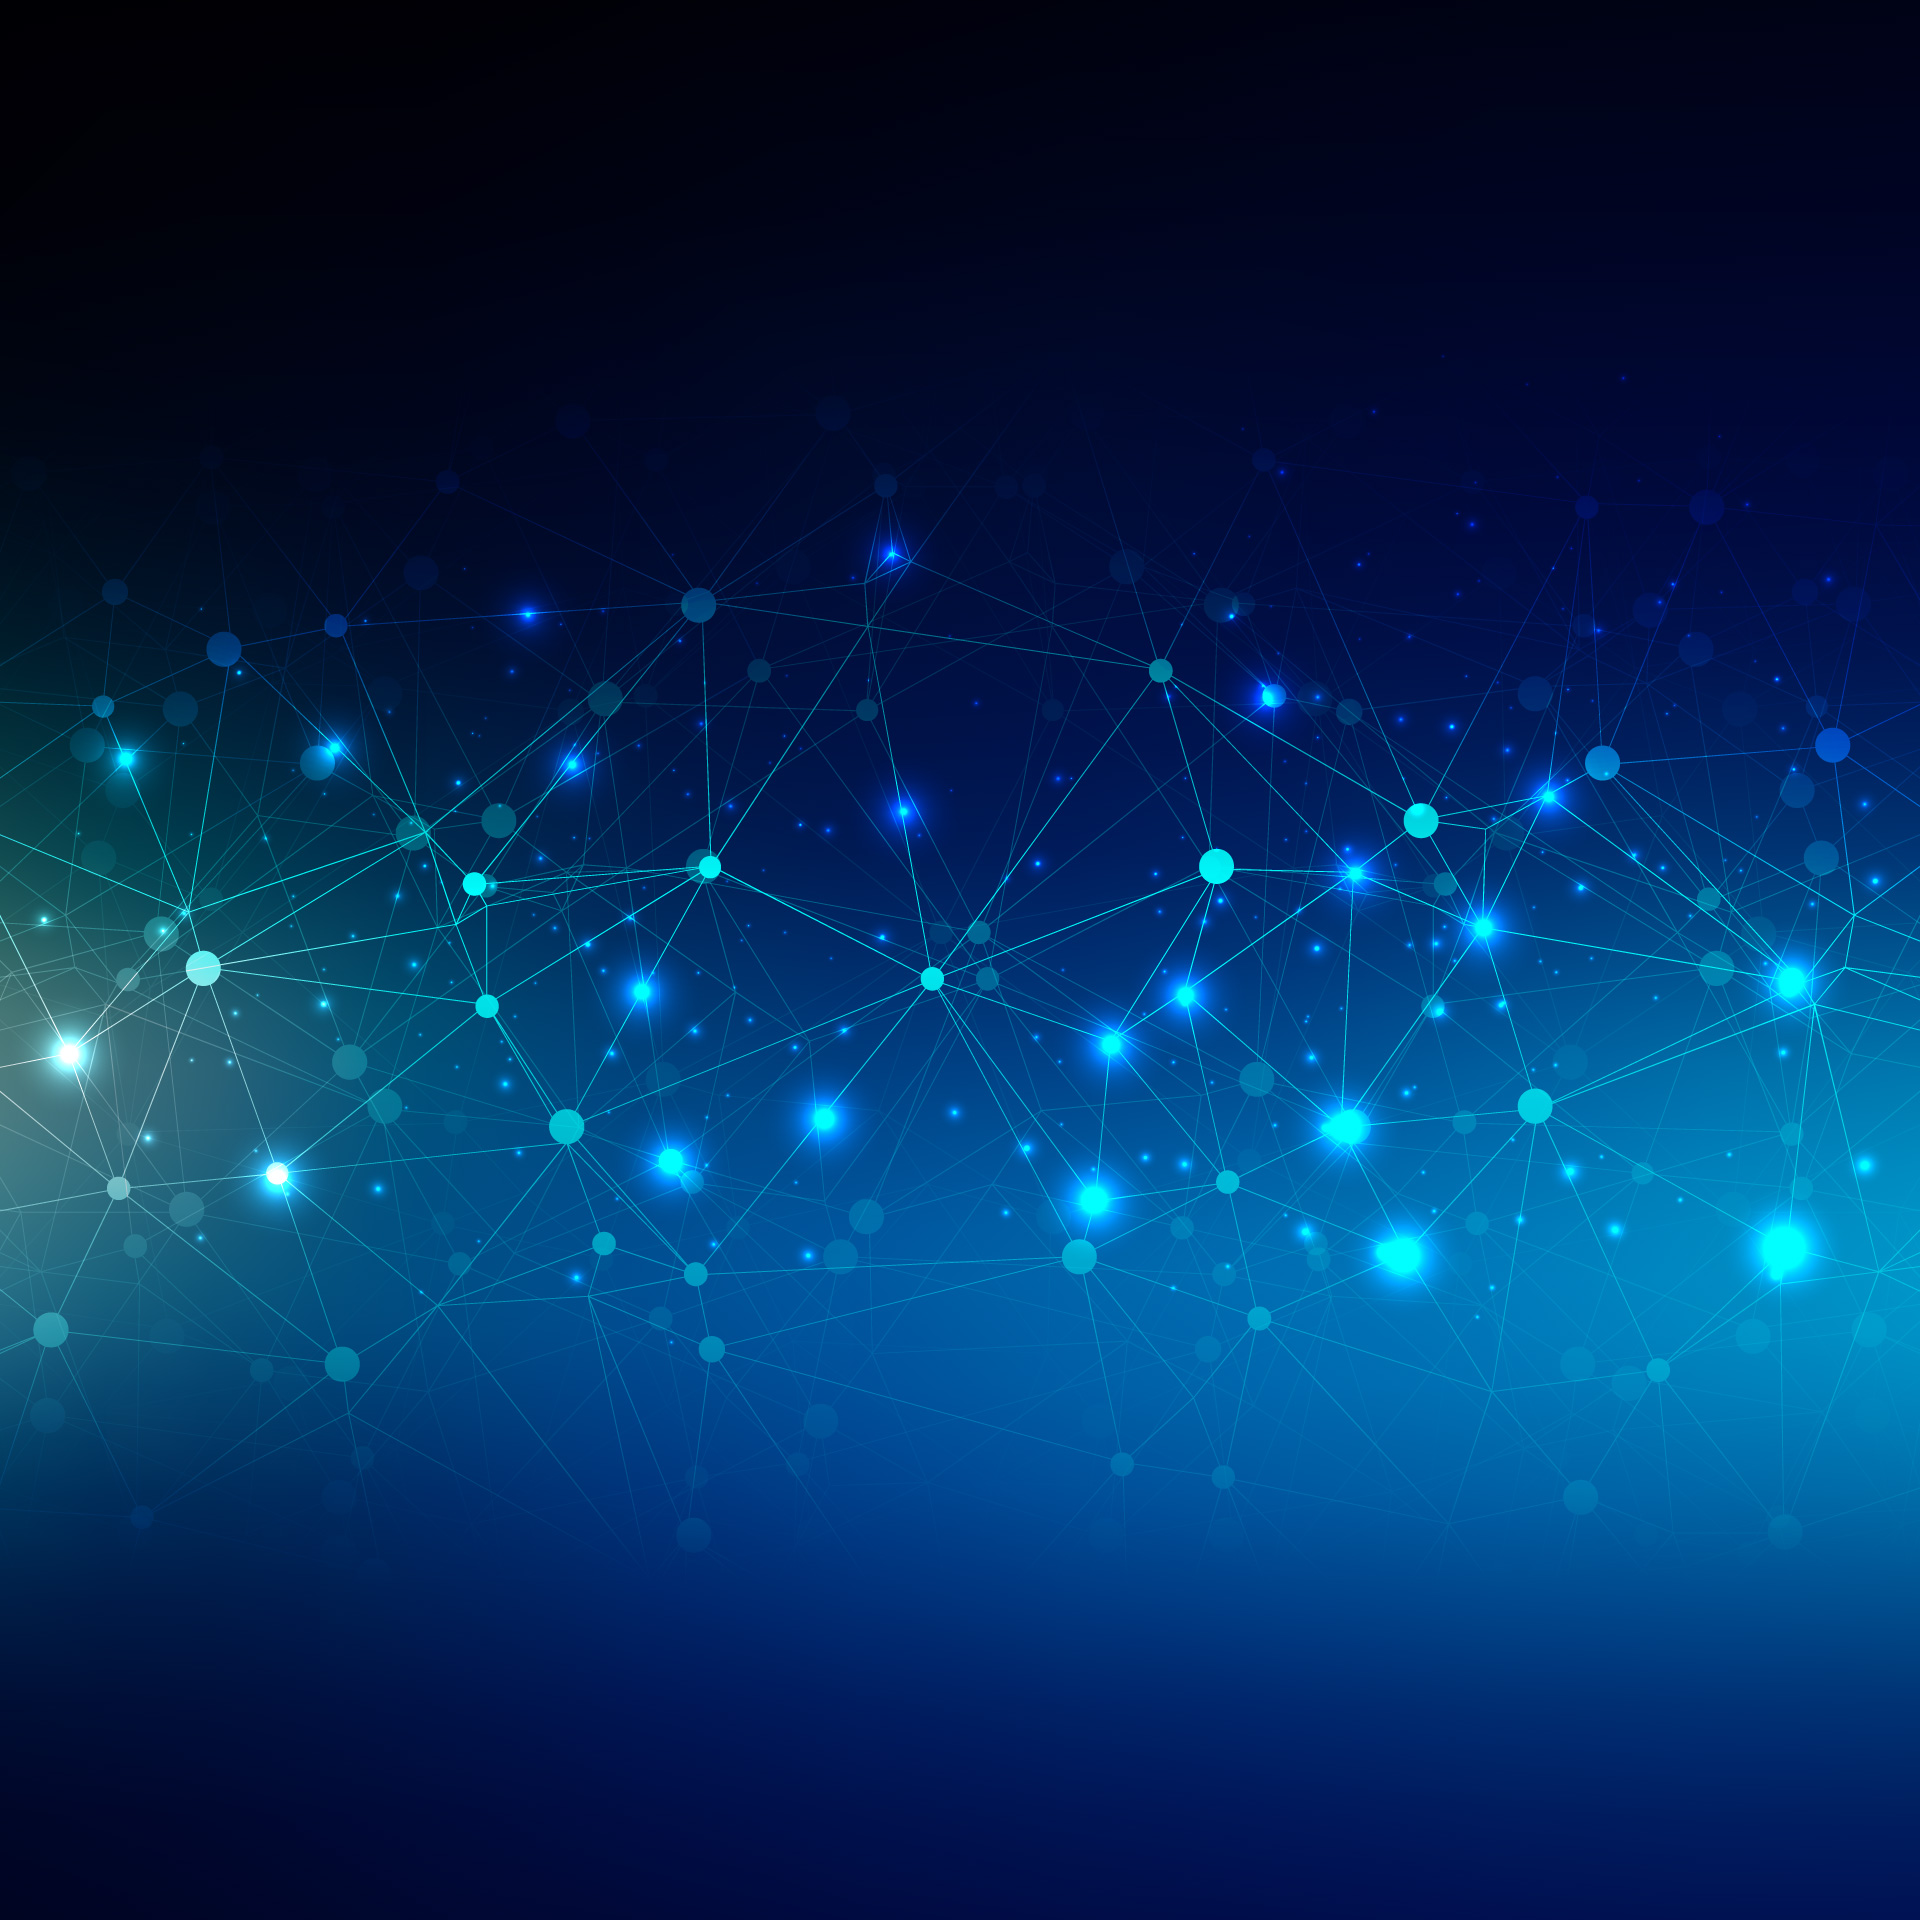
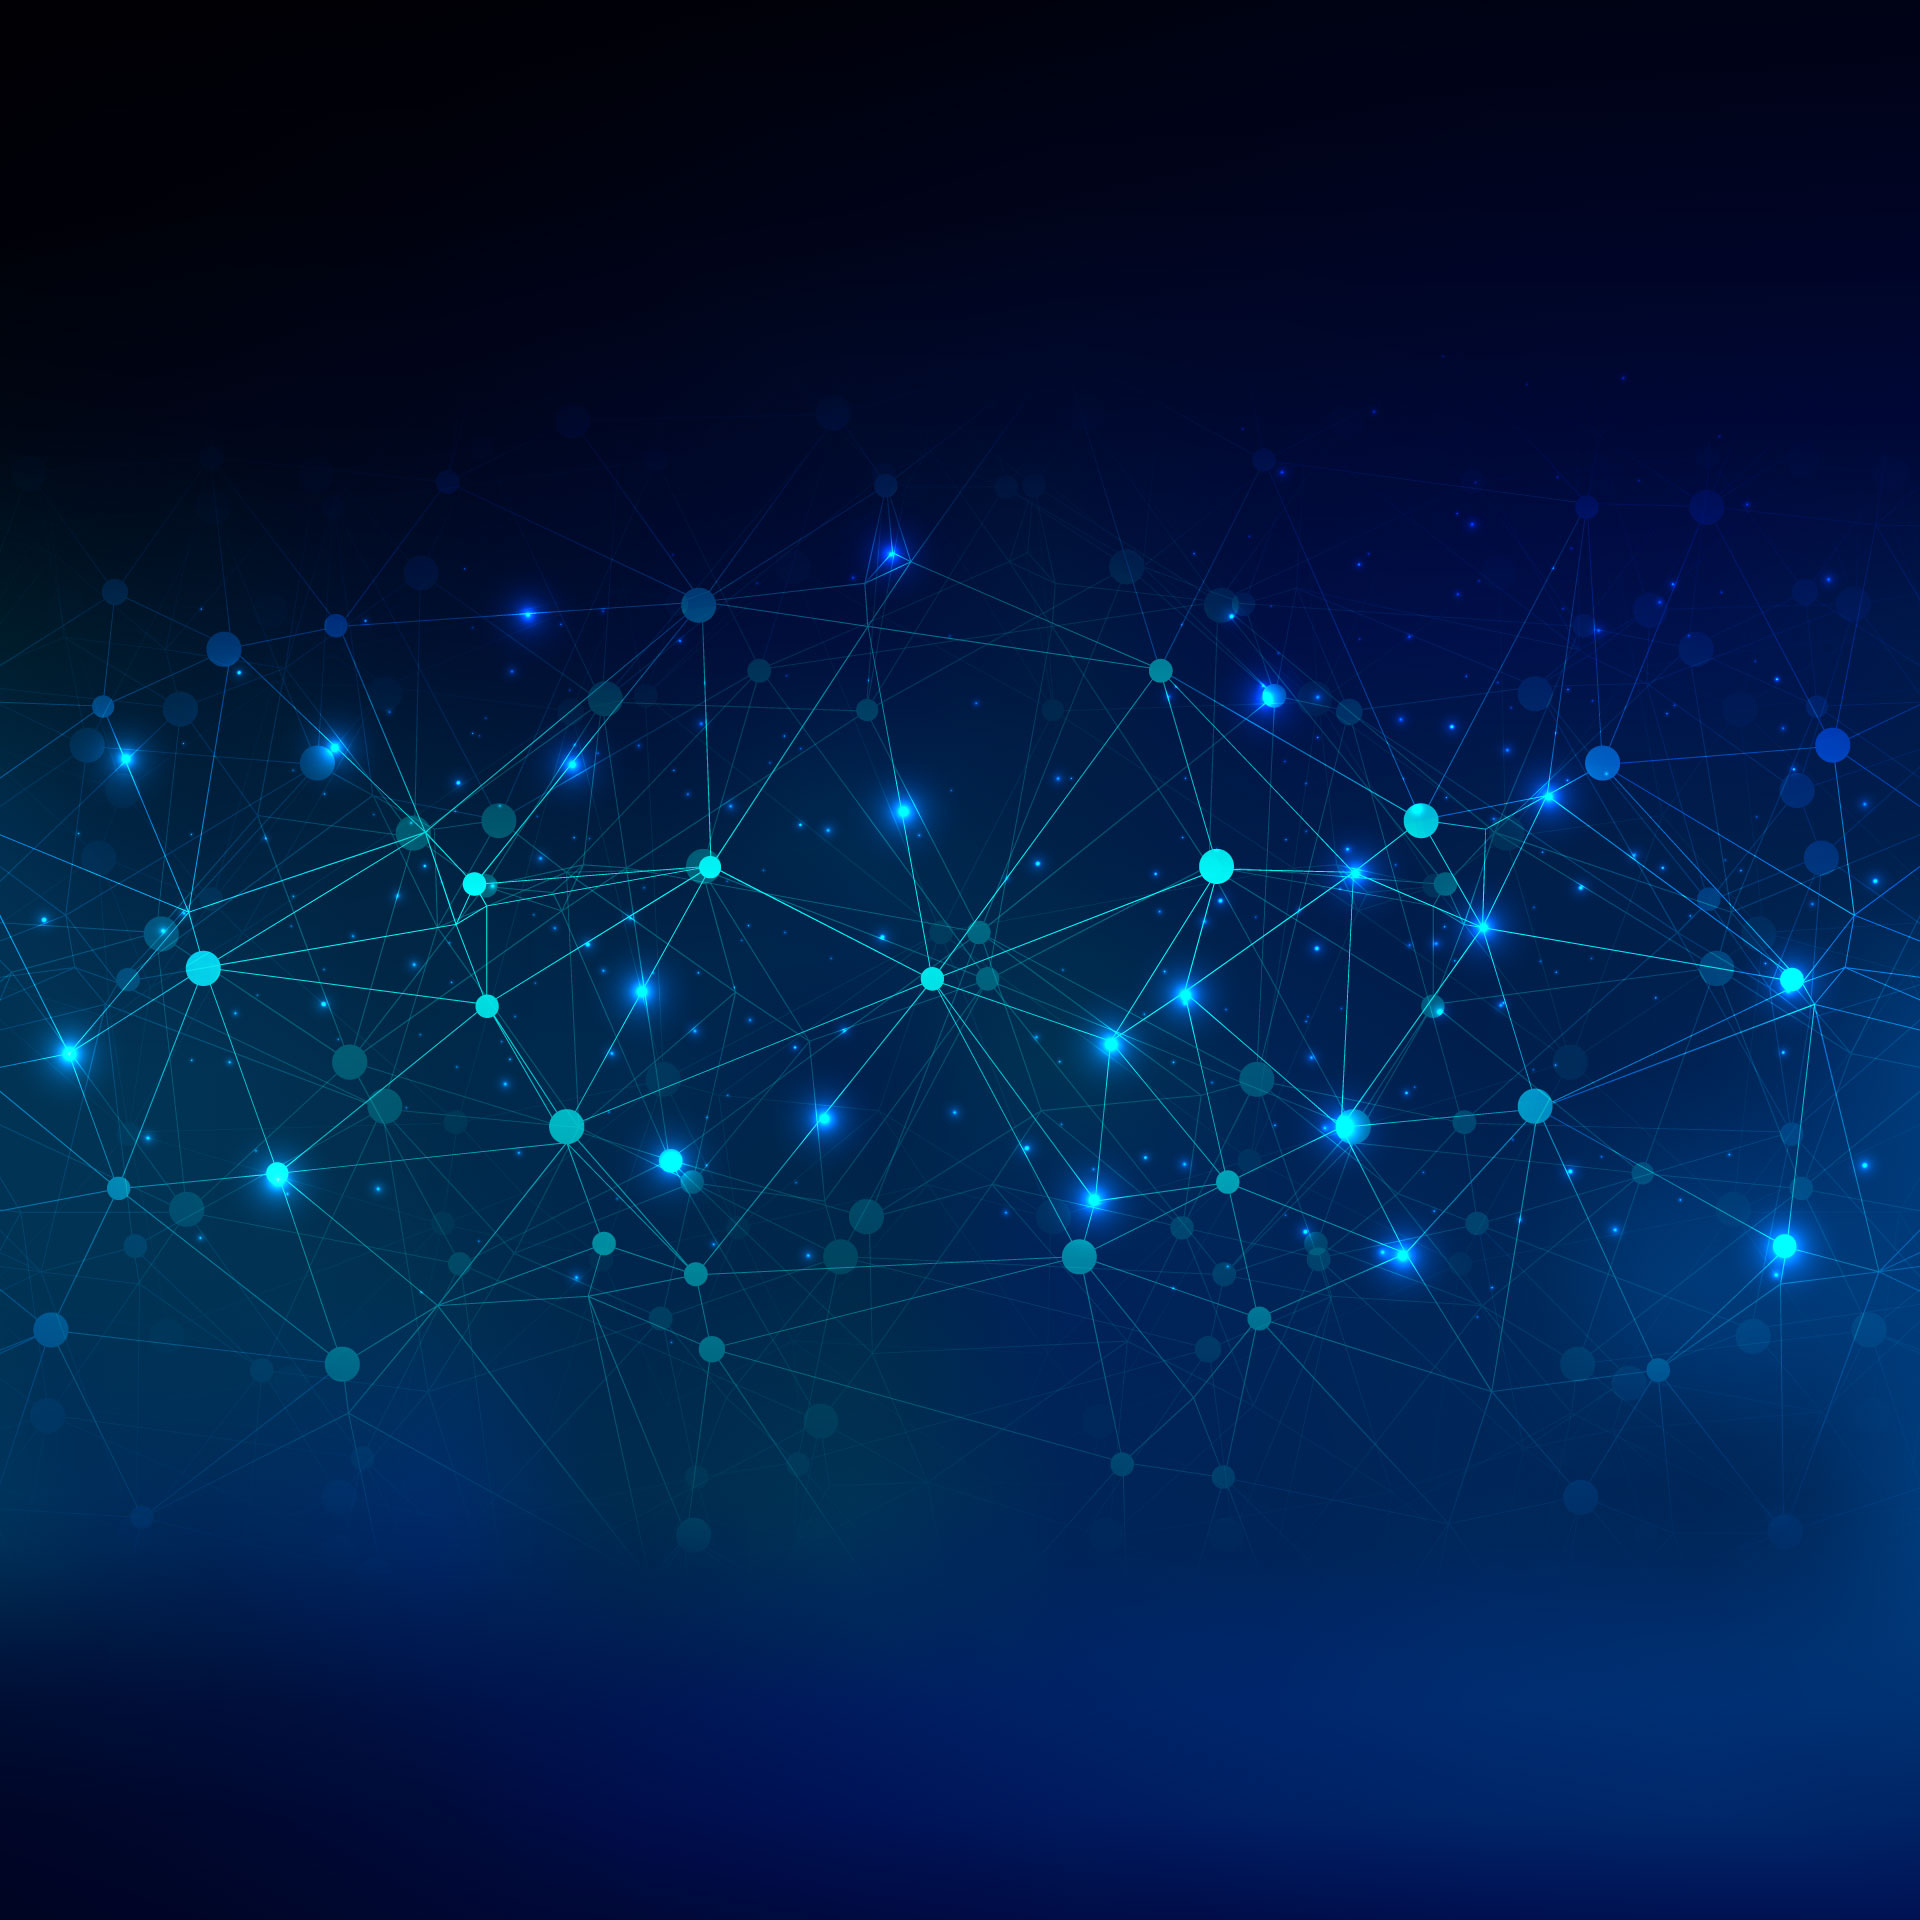
WIP - add new bg - change modal/credits - change cross closed - add background.php

diff --git a/css/articles.css b/css/articles.css
@@ -1,3 +1,87 @@
+/*.cross {
+    position: fixed;
+    top: 27%;
+    right: 3%;
+    display: flex;
+    justify-content: center;
+    align-items: center;
+    color: #ffffff;
+    font-family: 'raleway_blackregular';
+    font-size: 2.8em;
+    transition: all 1s ease;
+}
+.cross:hover {
+    text-decoration: none;
+    color: #c89db4;
+    transform: rotate(360deg);
+}*/
+
+/****** cross to closed ******/
+
+.outer-cross {
+    position: fixed;
+    top: 27%;
+    right:3%;
+    width: 50px;
+    display: flex;
+    justify-content: center;
+    align-items: center;
+    color: #ffffff;
+    font-size: 1em;
+  }
+.inner-back {
+    width: inherit;
+    text-align: center;
+  }
+  
+  label { 
+    font-size: .8em; 
+    line-height: 4em;
+    text-transform: uppercase;
+    color: #fff;
+    transition: all .3s ease-in;
+    opacity: 0;
+    cursor: pointer;
+  }
+  
+  .inner-back:before, .inner-back:after {
+    position: absolute;
+    content: '';
+    height: 3px;
+    width: inherit;
+    background: #c89db4;
+    left: 0;
+    transition: all .3s ease-in;
+  }
+  
+  .inner-back:before {
+    top: 47%; 
+    transform: rotate(45deg);  
+  }
+  
+  .inner-back:after {  
+    bottom: 47%;
+    transform: rotate(-45deg);  
+  }
+  
+  .outer-cross:hover label {
+    opacity: 1;
+  }
+  
+  .outer-cross:hover .inner-back:before,
+  .outer-cross:hover .inner-back:after {
+    transform: rotate(0);
+  }
+  
+  .outer-cross:hover .inner-back:before {
+    top: 0;
+  }
+  
+  .outer-cross:hover .inner-back:after {
+    bottom: 0;
+  }
+
+
 /****** Articles work part 1 ******/
 #articles-show {
     width:100%;
@@ -23,35 +107,7 @@
     width: 40%;
     margin-top: 2%;
 }
-#cross {
-    position: fixed;
-    top: 27%;
-    right: 3%;
-    display: flex;
-    justify-content: center;
-    align-items: center;
-    /* align-self: flex-end; */
-    border: 3px solid #b9387d;
-    border-radius: 50%;
-    width: 4em;
-    height: 4em;
-    padding: 1%;
-    transition: border 0.3s ease;
-}
-#cross:hover {
-    border: 6px solid #b9387d;
-    
-}
-.cross {
-    color: #b9387d;
-    font-family: 'raleway_blackregular';
-    font-size: 2.8em;
-}
-.cross:hover {
-    text-decoration: none;
-    color: #b9387d;
-}
-
+ 
 .article-header h1{
     text-transform: uppercase;
 }

diff --git a/css/main.css b/css/main.css
@@ -16,11 +16,21 @@
 body {
     font-size: 16px;
     box-sizing: border-box;
-    background: url('../img/background/abstract-background.jpg') no-repeat center fixed;
+    
+
+}
+.bg-blue {
+    background: url('../img/background/pont-raymond-barre-lyon.jpg') no-repeat center fixed;
     -webkit-background-size: cover; /* Pour les anciens chrome et safari */
     background-size: cover;
 }
 
+.abstract-background {
+    background: url('../img/background/abstract-background.jpg') no-repeat center fixed;
+    -webkit-background-size: cover; /* Pour les anciens chrome et safari */
+    background-size: cover;
+
+}
 #section-home {
   width:100%;
 }
@@ -31,5 +41,9 @@ h1,h2,h3,h4,h5,h6 {
 
 p {
     font-family: 'latoregular', sans-serif;
+}
+
+label {
+    margin: 0!important;
 }
 

diff --git a/php/contact.php b/php/contact.php
@@ -31,9 +31,10 @@
         </ul>
         <div class="foot-footer">
             <p>© 2019 |  PORTFOLIO PATRICIA WEBDESIGN |  </p>
-            <a href="#" class="popup" data-toggle="modal" data-backdrop="false" data-target="#infos">Crédits </a> <!--Pour la Popup-->
+            <a href="#" class="popup" data-toggle="modal" data-backdrop="false" data-target="#infos">Crédits </a> <!--Pour la Pop-up du credit-->
         </div> 
-       <!--suite de la Popup-->
+        
+       <!--pop-up = modal en boostrap-->
         <div class="modal" id="infos" id="infos" role="dialog" aria-labelledby="label" aria-hidden="true">
             <div class="modal-dialog" role="document">
                 <div class="modal-content">
@@ -41,13 +42,13 @@
                         <h4 class="modal-title"> Crédits </h4>
                     </div>
                     <div class="modal-body">
-                        © Photo pont Raymond Barre Lyon par Ludo-Lyon sur Pixabay 
+                        <strong>© Photo pont Raymond Barre Lyon par Ludo-Lyon sur Pixabay </strong>
                         <br/>
-                        https://pixabay.com/fr/photos/l-architecture-pont-design-lyon-3796664/ 
+                        <a href="https://pixabay.com/fr/photos/l-architecture-pont-design-lyon-3796664/">https://pixabay.com/fr/photos/l-architecture-pont-design-lyon-3796664/</a>
                         <hr class="hr-black"/> 
-                        © Abstract blue technology background design illustration par harryarts sur Vecteezy
+                        <strong>© Abstract blue technology background design illustration par harryarts sur Vecteezy </strong>
                         <br/>
-                        https://www.vecteezy.com/vector-art/257519-abstract-blue-technology-background-design-illustration/   
+                        <a href="https://www.vecteezy.com/vector-art/257519-abstract-blue-technology-background-design-illustration/">https://www.vecteezy.com/vector-art/257519-abstract-blue-technology-background-design-illustration/</a>  
                     </div>
                     <div class="modal-footer">
                         <button type="button" class="btn btn-info" data-dismiss="modal">Fermer </button>

diff --git a/php/background.php b/php/background.php
@@ -1,0 +1,32 @@
+
+<!----- BACKGROUND differents selon les pages ----->
+
+<?php
+        $fond = 'null';
+        if (isset($_GET['page']) && $_GET['page']==0) { 
+            $fond = 'null';
+        }   
+        if (isset($_GET['page']) && $_GET['page']==1)  {
+            $fond = './img/background/abstract-background.jpg';
+        }
+        if (isset($_GET['page']) && $_GET['page']==3)  {
+            $fond = './img/background/abstract-background.jpg';
+        }
+        if (isset($_GET['page']) && $_GET['page']==4)  {
+            $fond = 'null';
+        } 
+        
+        if (isset($_GET['id']) && $_GET['id']<=9) {
+            $fond = './img/background/bg-blue.jpg';
+        }
+        
+            
+?>
+
+<style>
+        body {
+            background: url('<?php echo $fond ?>') no-repeat center fixed;
+            -webkit-background-size: cover; /* Pour les anciens chrome et safari */
+            background-size: cover;
+        }
+    </style>

diff --git a/index.php b/index.php
@@ -7,7 +7,12 @@
     ?>
 <!-------- BODY -------->
 <body>
+        <!-- BACKGROUND SUR LES PAGES -->
+        <?php
+            include "./php/background.php";
+        ?>
 
+        <!-- LOGO -->
     <section id="section-home">
     <img src="./img/logo_PatriciaWebdesign-V3-144x117-blanc.png" class="show-logo-white" alt="logo portfolio Patricia Perroudon Webdesigner" />
     
@@ -15,7 +20,6 @@
     <!-------- Menu-Burger -------->
         <?php
             include "./php/menu-burger.php";
-
         ?>
         
     <!-------- primary navigation -------->
@@ -26,6 +30,7 @@
 
     <!-------- condition du menus -------->
      <?php
+
         if (isset($_GET['page']) && $_GET['page']==0) { 
             include './php/home.php';
         }   
@@ -46,11 +51,9 @@
                 include './php/menu-work.php';
             }
         }
-        
         else {
             include './php/home.php';
         }
-
     ?>
 
     

diff --git a/php/articles.php b/php/articles.php
@@ -9,7 +9,11 @@ while($item = $query2->fetch()) { ?>
 
 <section id="articles-show">
     <div class="article-header">
-        <div id="cross"><a class="cross" href="index.php?page=3">X</a></div>
+        <div class="outer-cross">
+            <a class="inner-back" href="index.php?page=3">
+                <label>Back</label>
+            </a>
+        </div>
         <h1><?php echo nl2br($item['title_work'])?></h1>
         <p><?php echo nl2br($item['content_work'])?></p>
         <p><?php echo nl2br($item['content_work2'])?></p>

diff --git a/php/about-me.php b/php/about-me.php
@@ -1,3 +1,4 @@
+
 <section class="a-propos">
     
     <section class="presentation">
